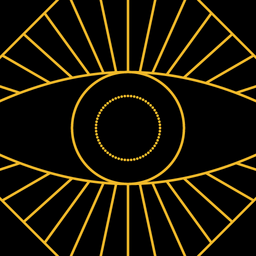
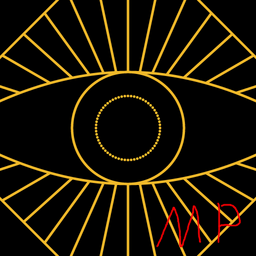
v1.1.2

Changed region(s): [[0.625, 0.7812, 0.7812, 0.9688], [0.8438, 0.7812, 0.9375, 0.9688], [0.5938, 0.9375, 0.625, 0.9688]]

diff --git a/util/convertList.py b/util/convertList.py
@@ -5,7 +5,7 @@ global data
 with open("util\\list_from_thunderstore.txt", "r") as f:
     data = f.readlines()
 
-out = ", \n".join([f'"{f.strip()}"' for f in data if not re.match(r"TheCoven-TheCovenModpack-[0-9]\.[0-9]\.[0-9]", f)])
+out = ", \n     ".join([f'"{f.strip()}"' for f in data if not re.match(r"TheCoven-TheCovenModpack-[0-9]\.[0-9]\.[0-9]", f)])
 
 with open("util\\list_from_thunderstore.txt", "w") as f:
     f.write(out)

diff --git a/README.md b/README.md
@@ -8,6 +8,12 @@ Maple penis
 
 ## Changelog
 
+## v1.1.2
+
+Updated 2 mods
+Changed icon
+Pack version for stream on 02.01.2024
+
 ## v1.1.1
 
 Updated and added new mods, including TheCovenMod by taarna23
